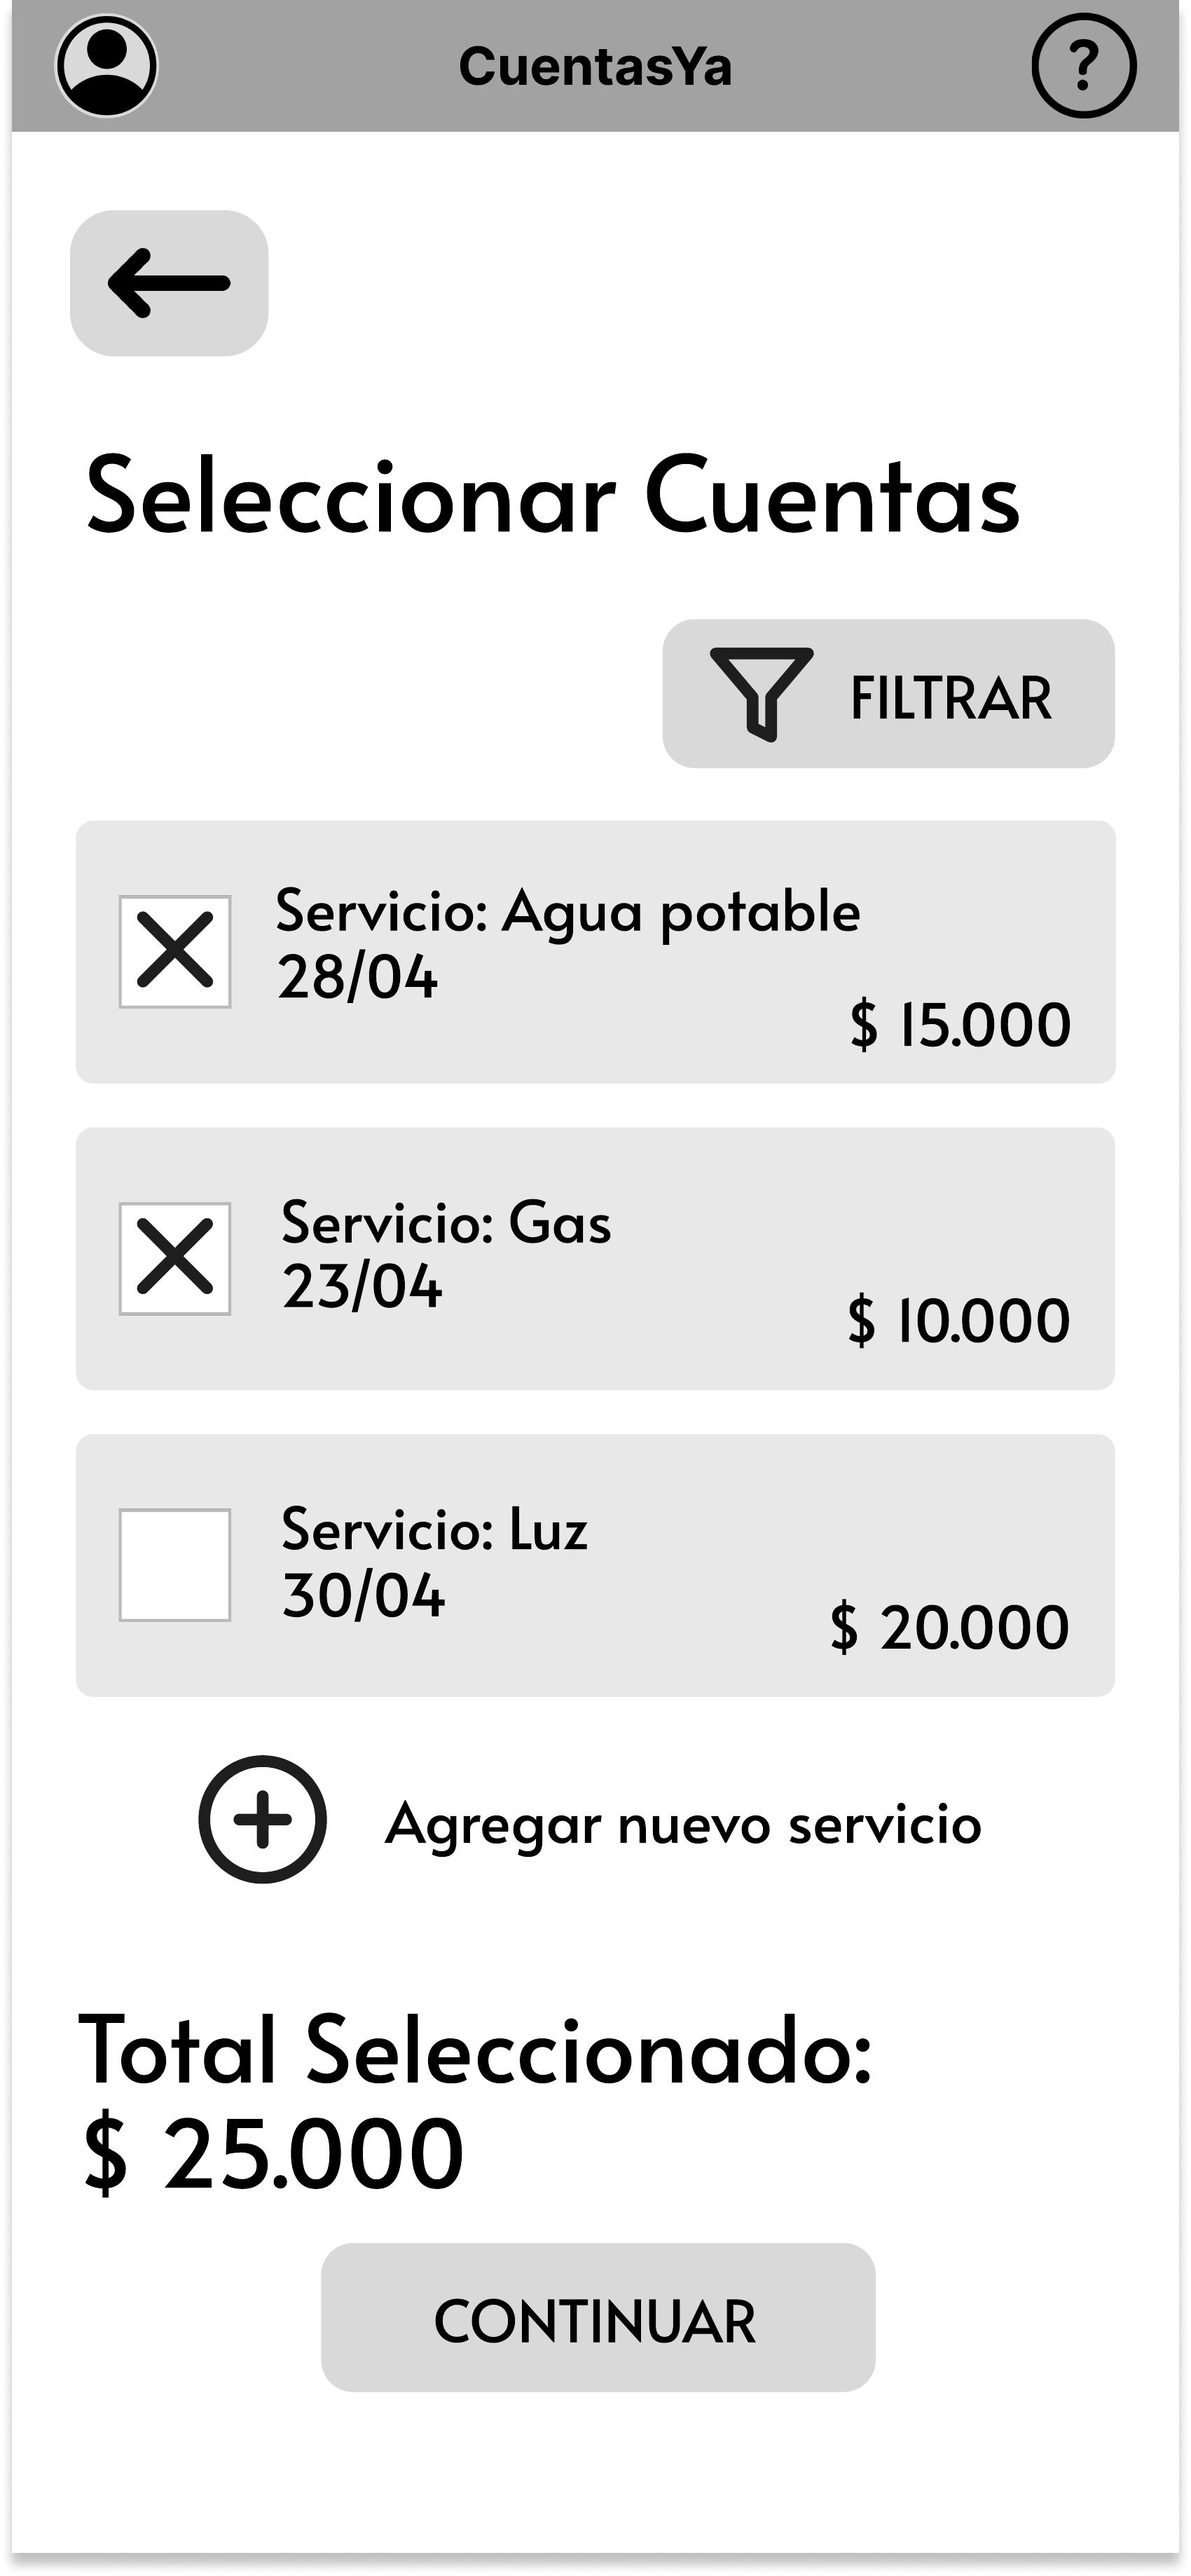
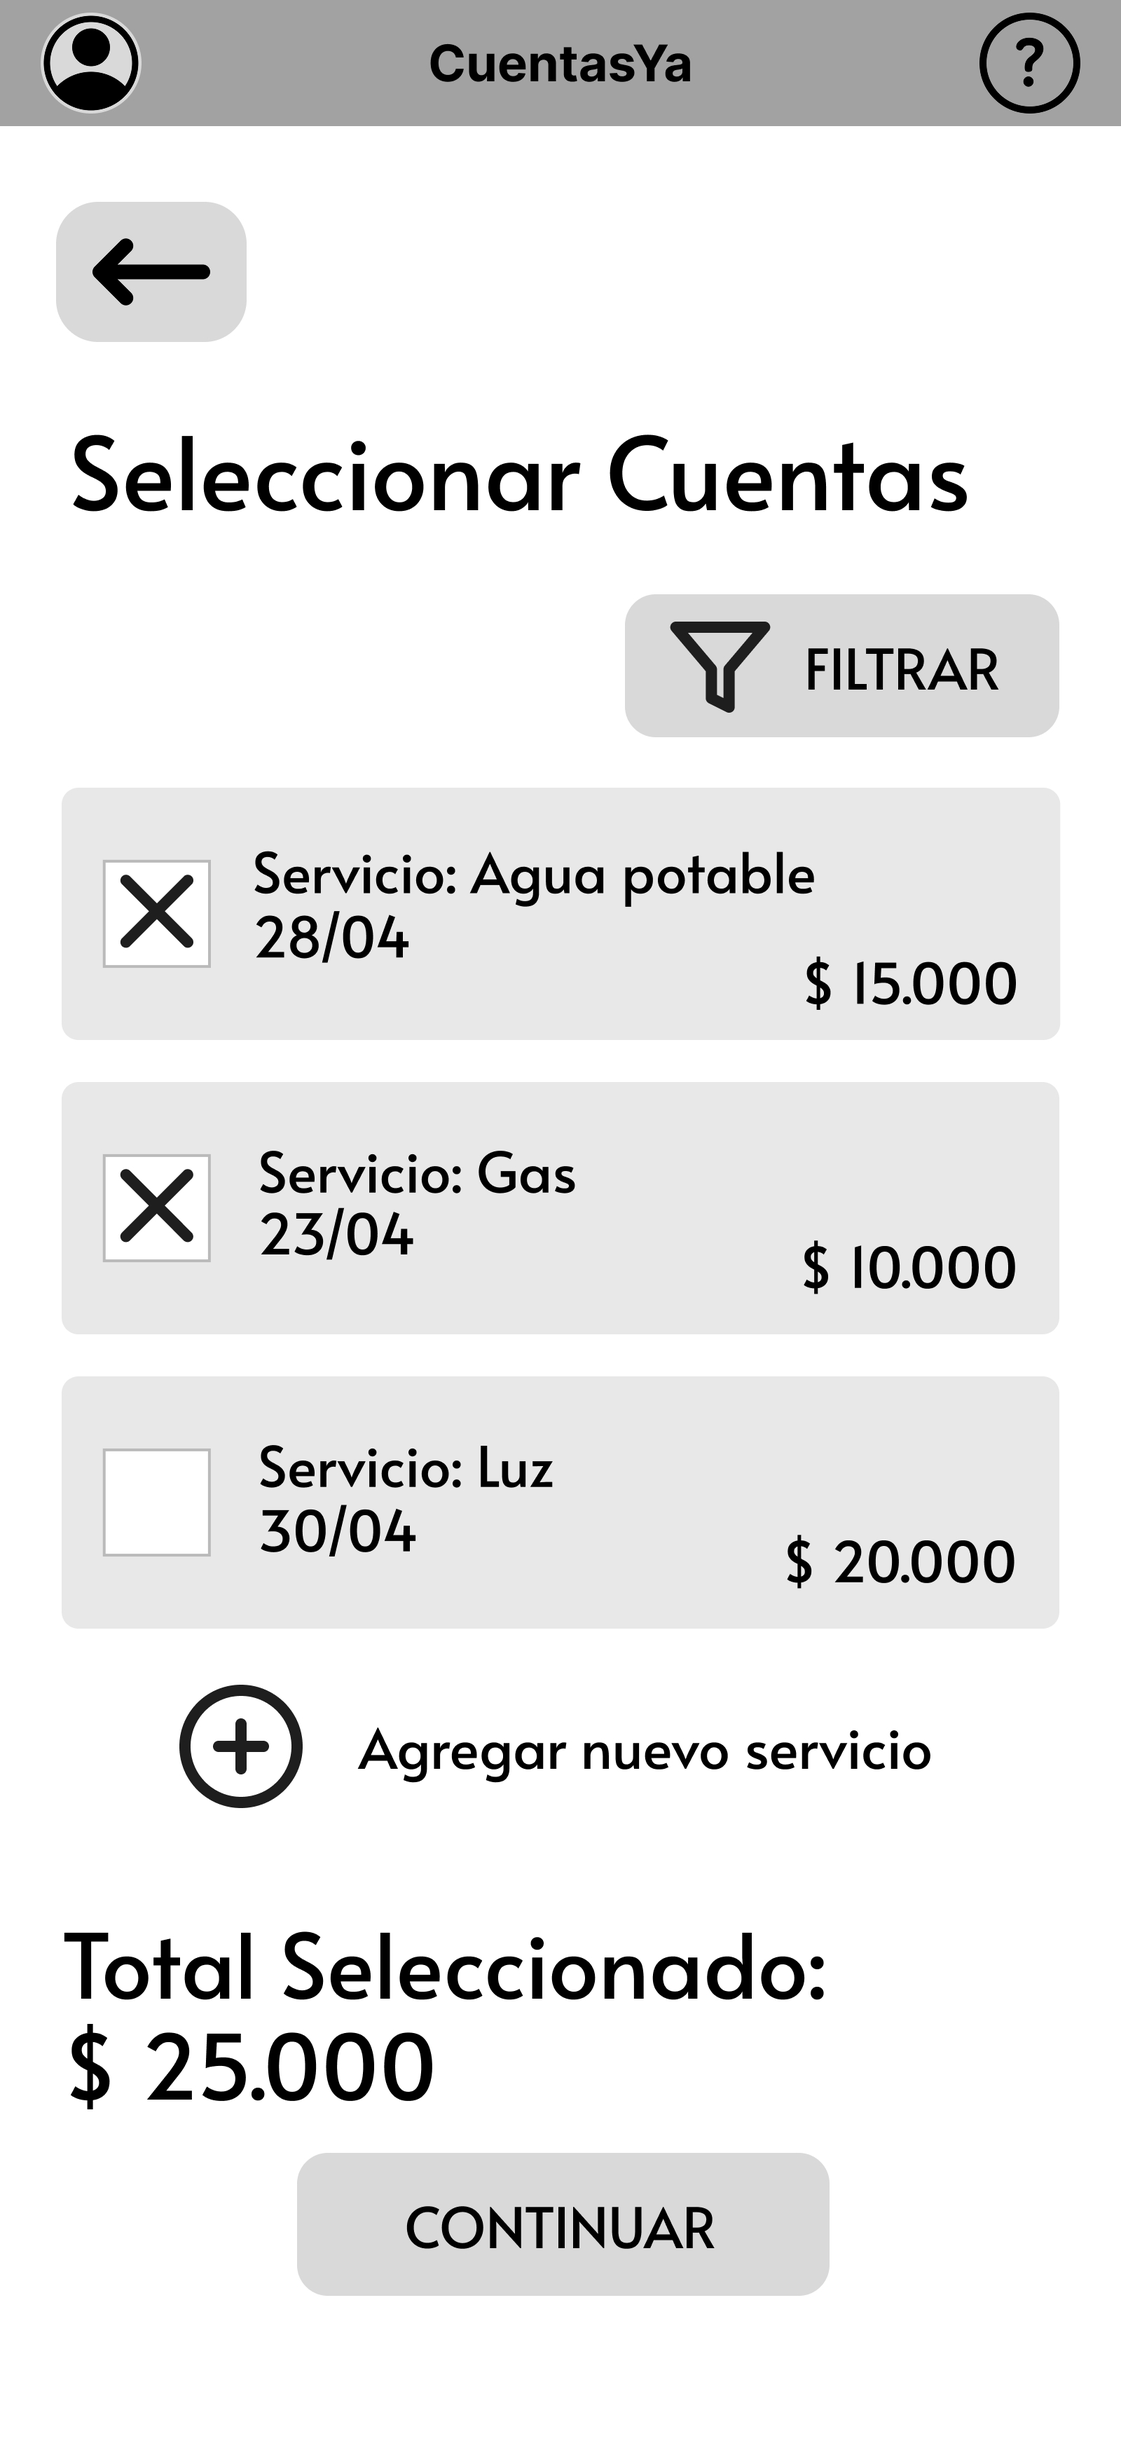
style: reorganizar headers y actualizar wireframe
- Mover selector de idiomas al inicio en ambos README
- Remover contenido duplicado en README_ES.md
- Actualizar wireframe-09.jpg con nueva versión
- Mejorar consistencia entre archivos de documentación

diff --git a/README_ES.md b/README_ES.md
@@ -1,15 +1,9 @@
 # CuentasYa
 
+**🌐 Languages / Idiomas:** [English](README.md) | [Español](README_ES.md)
+
 Este repositorio contiene todo el proceso de experiencia de usuario detrás de la aplicación 'CuentasYa', enfocada en el pago de cuentas para adultos mayores.
 
-**🌐 Idiomas / Languages:** [Español](README_ES.md) | [English](README.md)
-
-El equipo del proyecto está formado por:
-* Javier Alcalde
-* Joaquín Faúndez
-* Diego Labrín
-* Sebastián Llanos
-* Jesús Tapia
 
 <img src="Documents/CuentasYa.jpg" alt="CuentasYa" style="width: 200px; height: auto;">
 

diff --git a/README.md b/README.md
@@ -1,10 +1,8 @@
 # CuentasYa
 
+**🌐 Languages / Idiomas:** [English](README.md) | [Español](README_ES.md)
+
 This repository contains all the user experience process behind the app 'CuentasYa', focused on the payment of bills for older adults. 
-
-**🌐 Idiomas / Languages:** [Español](README_ES.md) | [English](README.md)
-
-
 
 <img src="Documents/CuentasYa.jpg" alt="CuentasYa" style="width: 200px; height: auto;">
 
